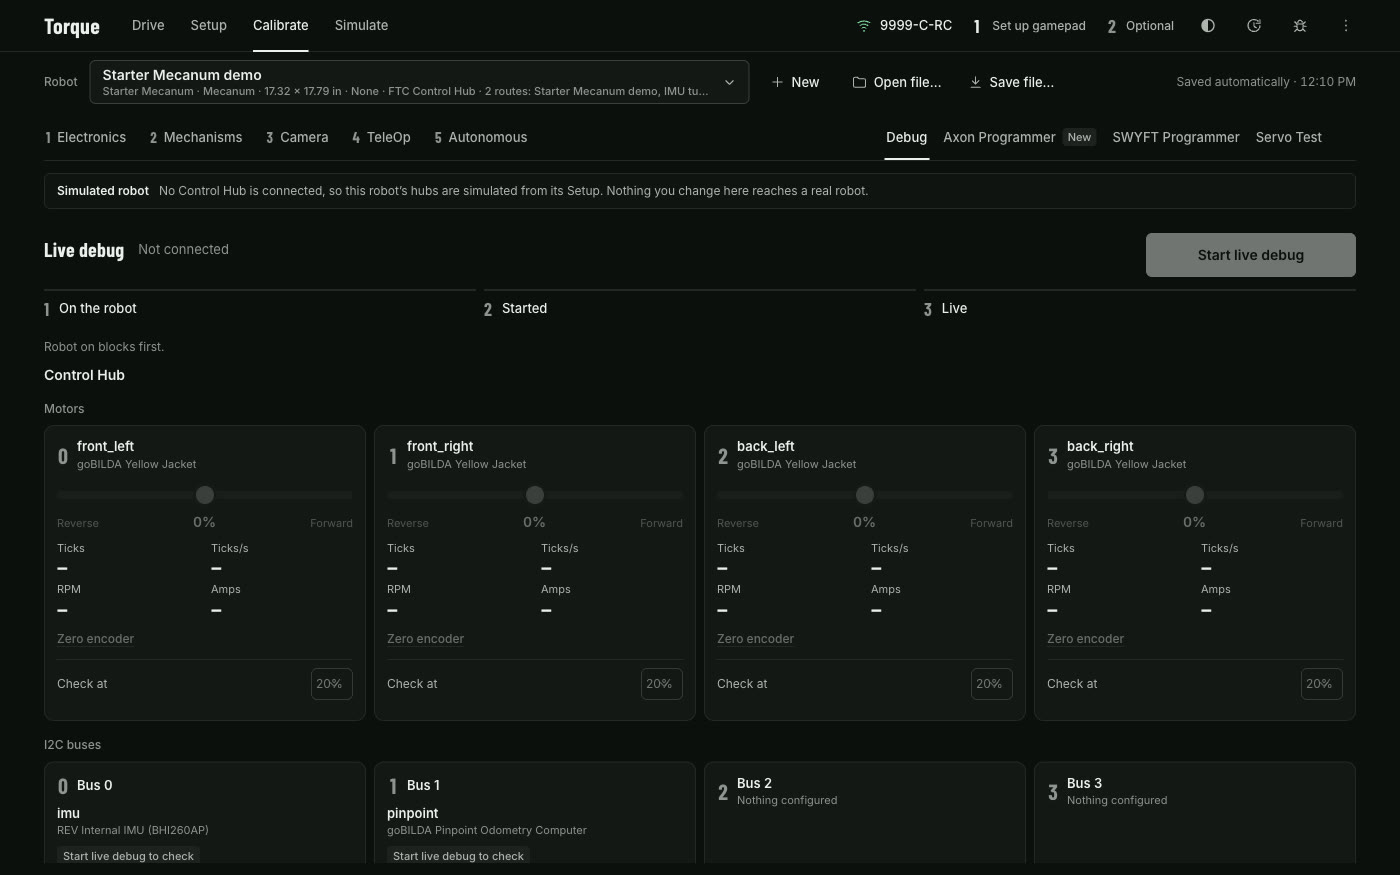
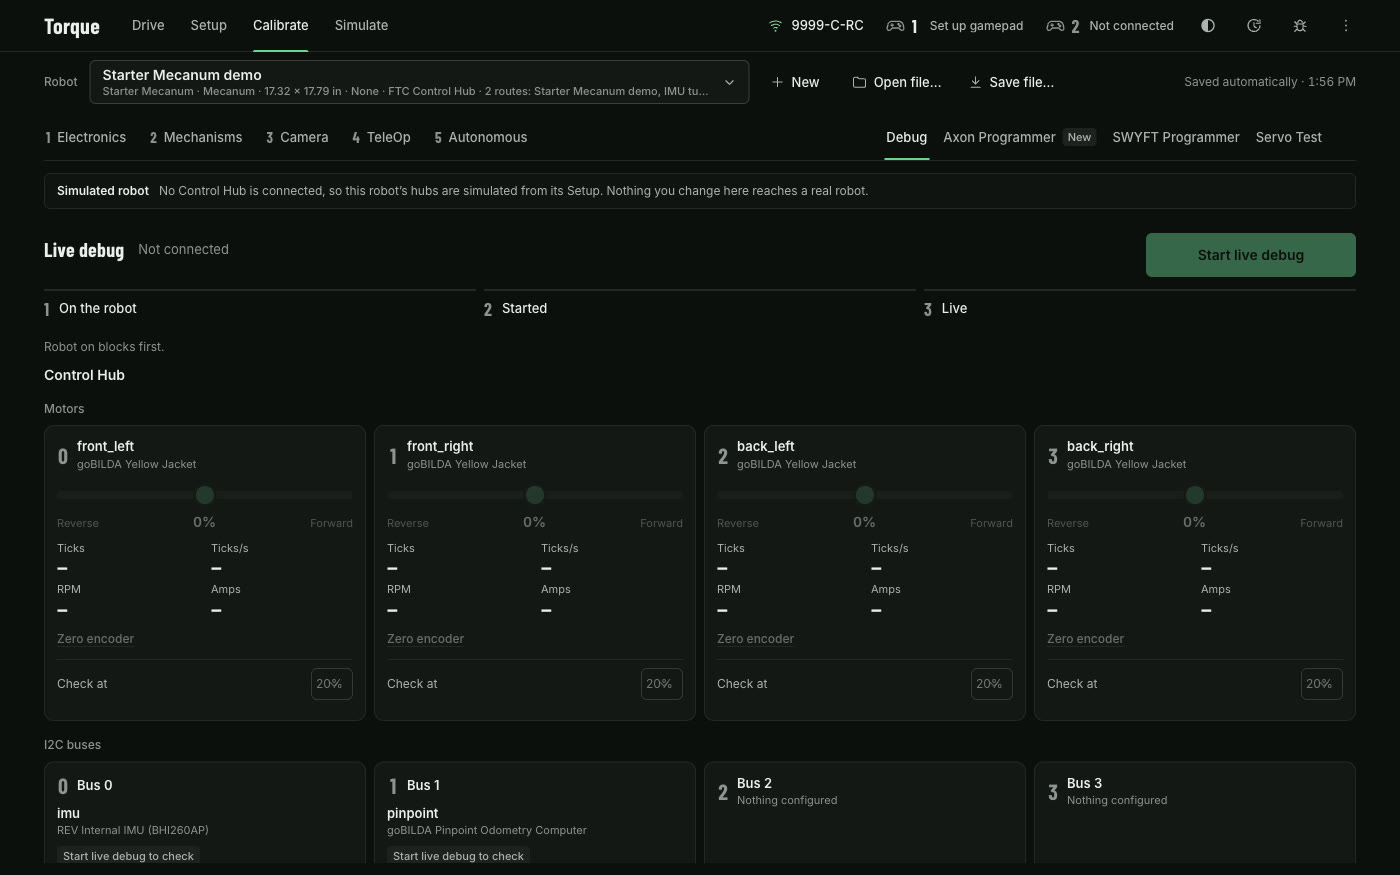
The README's pictures are retaken with the theme accent, and the robot view comes back however a dialog closes
A dialog closed by a script (or any way but its own buttons) left the app thinking something still covered the robot
view, so it stayed hidden. The app now checks again whenever any dialog closes.

Changed region(s): [[0.7986, 0.2469, 0.9829, 0.3394], [0.5529, 0.0, 0.8293, 0.0617], [0.86, 0.0926, 0.9214, 0.1234]]

diff --git a/ui/app.js b/ui/app.js
@@ -73,6 +73,8 @@ new ResizeObserver(()=>void bounds()).observe($('#robot-mount'));window.addEvent
 void task(async()=>{const data=await api.bootstrap();hardware=data.hardware;$('.version').textContent=data.app?data.app.version+' · '+data.app.channel:'';$('#menu-version').textContent=menuVersion(data.app);$('#device').textContent=hardware.model;render(data.state);$('#about-version').textContent=data.app?`Torque ${data.app.version}, ${data.app.channel==='testing'?'Testing (pre-release)':'Main (stable)'}`:'';void controllers();setInterval(controllers,1000);void loadThemes();});
 
 function syncOverlay(){void api.overlay(!$('#menu').hidden||!$('#wifi-popover').hidden||[...document.querySelectorAll('dialog')].some(d=>d.open)).catch(()=>{});}
+// However a dialog closes (its button, Escape, or a script), the robot view comes back once nothing covers it.
+document.addEventListener('close',()=>syncOverlay(),true);
 let updateBusy=false;
 function updateButtons(busy){updateBusy=busy;for(const id of ['update-check','update-download','update-close','update-main','update-testing','testing-confirm','testing-cancel'])$('#'+id).disabled=busy;}
 function resetUpdateResult(){$('#update-download').hidden=true;$('#update-dismiss').hidden=true;$('#update-changelog').hidden=true;$('#update-progress').hidden=true;}
